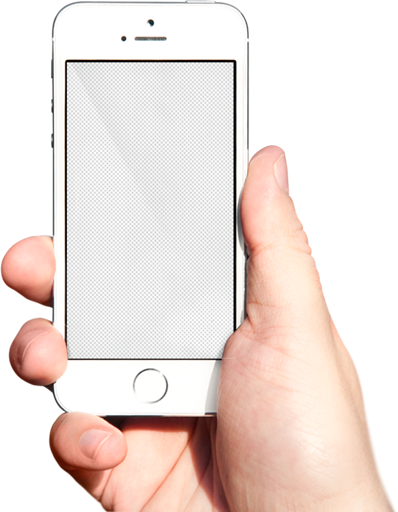
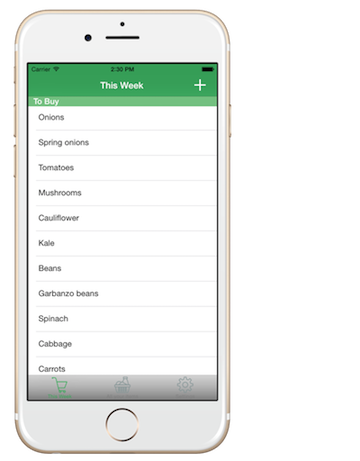
Made it as close to real as possible

diff --git a/index.html b/index.html
@@ -111,13 +111,13 @@ License URL: http://creativecommons.org/licenses/by/3.0/
 			          <img src="images/slide.jpg" alt="">
 			          <div class="caption text-center">
 			          	<div class="slide-text-info">
-			          		<h1>Introducing <span>GrocerEz.</span></h1>
+			          		<!--<h1>Introducing <span>GrocerEz.</span></h1>-->
 			          		<h2>Grocery planning and shopping made easy</h2>
 			          		<div class="slide-text">
 			          			<ul>
-			          				<li><span> </span>Sed ut perspiciatis unde omnis </li>
-			          				<li><span> </span>Iste natus error sit voluptatem accusantium </li>
-			          				<li><span> </span>doloremque laudantium</li>
+			          				<li><span> </span>Made for busy families.</li>
+			          				<li><span> </span>Spend time shopping, not creating lists.</li>
+			          				<li><span> </span>Your grocery list when you need it.</li>
 			          			</ul>
 			          		</div>
 			          		<div class="clearfix"> </div>
@@ -208,8 +208,8 @@ License URL: http://creativecommons.org/licenses/by/3.0/
 			<div id="fea" class="features">
 				<div class="container">
 					<div class="section-head text-center">
-						<h3><span class="frist"> </span>AMAZING FEATURES<span class="second"> </span></h3>
-						<p>Sed ut perspiciatis unde omnis iste natus error sit voluptatem accusantium doloremque laudantium, totam rem aperiam, eaque ipsa quae ab illo inventore veritatis et quasi architecto beatae vitae dicta.</p>
+						<h3><span class="frist"> </span>What you&#39;ll like<span class="second"> </span></h3>
+						<!--<p>Sed ut perspiciatis unde omnis iste natus error sit voluptatem accusantium doloremque laudantium, totam rem aperiam, eaque ipsa quae ab illo inventore veritatis et quasi architecto beatae vitae dicta.</p>-->
 					</div>
 					<!----features-grids----->
 					<div class="features-grids">
@@ -219,8 +219,8 @@ License URL: http://creativecommons.org/licenses/by/3.0/
 									<span class="f-icon0"> </span>
 								</div>
 								<div class="col-md-10 features-info">
-									<h4>Accusan timar</h4>
-									<p>Sed ut perspiciatis unde omnis iste natus error sit voluptatem accusantium doloremque laudantium.</p>
+									<h4>Ready shopping list</h4>
+									<p>Automatically created based on your buying habits.  So you always know what you need when you&#39;re in the store.</p>
 								</div>
 								<div class="clearfix"> </div>
 							</div>
@@ -229,12 +229,12 @@ License URL: http://creativecommons.org/licenses/by/3.0/
 									<span class="f-icon1"> </span>
 								</div>
 								<div class="col-md-10 features-info">
-									<h4>Accusan timar</h4>
-									<p>Sed ut perspiciatis unde omnis iste natus error sit voluptatem accusantium doloremque laudantium.</p>
+									<h4>In the store</h4>
+									<p>Use the shopping list.  Simply tap your item when you put it in your shopping cart.</p>
 								</div>
 								<div class="clearfix"> </div>
 							</div>
-							<div class="features-grid-info">
+							<!--<div class="features-grid-info">
 								<div class="col-md-2 features-icon">
 									<span class="f-icon2"> </span>
 								</div>
@@ -243,12 +243,12 @@ License URL: http://creativecommons.org/licenses/by/3.0/
 									<p>Sed ut perspiciatis unde omnis iste natus error sit voluptatem accusantium doloremque laudantium.</p>
 								</div>
 								<div class="clearfix"> </div>
-							</div>
+							</div>-->
 							
 						</div><!---end-features-grid---->
 						<div class="col-md-4 features-grid">
 							<div class="big-divice">
-								<img src="images/divice.png" title="features-demo" />
+								<img src="images/features.png" style="box-shadow: 7px 7px 5px #888888; border-top-style: none; border-bottom-style: none; border-right-style: none; border-left-style: solid; border-width: thin; border-color: #888888;" />
 							</div>
 						</div><!---end-features-grid---->
 						<div class="col-md-4 features-grid">
@@ -257,8 +257,8 @@ License URL: http://creativecommons.org/licenses/by/3.0/
 									<span class="f-icon3"> </span>
 								</div>
 								<div class="col-md-10 features-info">
-									<h4>Accusan timar</h4>
-									<p>Sed ut perspiciatis unde omnis iste natus error sit voluptatem accusantium doloremque laudantium.</p>
+									<h4>Smart add</h4>
+									<p>Search across 1000s of grocery items.  Add to your list with a single tap.</p>
 								</div>
 								<div class="clearfix"> </div>
 							</div>
@@ -267,12 +267,12 @@ License URL: http://creativecommons.org/licenses/by/3.0/
 									<span class="f-icon4"> </span>
 								</div>
 								<div class="col-md-10 features-info">
-									<h4>Accusan timar</h4>
-									<p>Sed ut perspiciatis unde omnis iste natus error sit voluptatem accusantium doloremque laudantium.</p>
+									<h4>Purchase history</h4>
+									<p>In case you forgot when you last bought something.  So you don&#39;t buy more of what you don&#39;t need.</p>
 								</div>
 								<div class="clearfix"> </div>
 							</div>
-							<div class="features-grid-info">
+							<!--<div class="features-grid-info">
 								<div class="col-md-2 features-icon1">
 									<span class="f-icon5"> </span>
 								</div>
@@ -281,7 +281,7 @@ License URL: http://creativecommons.org/licenses/by/3.0/
 									<p>Sed ut perspiciatis unde omnis iste natus error sit voluptatem accusantium doloremque laudantium.</p>
 								</div>
 								<div class="clearfix"> </div>
-							</div>
+							</div>-->
 							
 						</div><!---end-features-grid---->
 						<div class="clearfix"> </div>
@@ -293,8 +293,8 @@ License URL: http://creativecommons.org/licenses/by/3.0/
 					<div id="gallery" class="screen-shot-gallery">
 						<div class="container">
 							<div class="section-head text-center">
-								<h3><span class="frist"> </span>SCREENSHOTS GALLERY<span class="second"> </span></h3>
-								<p>Sed ut perspiciatis unde omnis iste natus error sit voluptatem accusantium doloremque laudantium, totam rem aperiam, eaque ipsa quae ab illo inventore veritatis et quasi architecto beatae vitae dicta.</p>
+								<h3><span class="frist"> </span>Screenshots<span class="second"> </span></h3>
+								<!--<p>Sed ut perspiciatis unde omnis iste natus error sit voluptatem accusantium doloremque laudantium, totam rem aperiam, eaque ipsa quae ab illo inventore veritatis et quasi architecto beatae vitae dicta.</p>-->
 							</div>
 						</div>
 						<!----sreen-gallery-cursual---->
@@ -316,28 +316,19 @@ License URL: http://creativecommons.org/licenses/by/3.0/
 							 <div class="container">
 						       <div id="owl-demo" class="owl-carousel">
 					                <div class="item">
-					                	<img class="lazyOwl" data-src="images/screen.jpg" alt="screen-name">
+					                	<img class="lazyOwl" data-src="images/screen0.png" alt="screen-name">
 					                </div>
 					                <div class="item">
-					                	<img class="lazyOwl" data-src="images/screen.jpg" alt="screen-name">
+					                	<img class="lazyOwl" data-src="images/screen1.png" alt="screen-name">
 					                </div>
 					                <div class="item">
-					                	<img class="lazyOwl" data-src="images/screen.jpg" alt="screen-name">
+					                	<img class="lazyOwl" data-src="images/screen2.png" alt="screen-name">
 					                </div>
 					                <div class="item">
-					                	<img class="lazyOwl" data-src="images/screen.jpg" alt="screen-name">
+					                	<img class="lazyOwl" data-src="images/screen3.png" alt="screen-name">
 					                </div>
 					                <div class="item">
-					                	<img class="lazyOwl" data-src="images/screen.jpg" alt="screen-name">
-					                </div>
-					                <div class="item">
-					                	<img class="lazyOwl" data-src="images/screen.jpg" alt="screen-name">
-					                </div>
-					                <div class="item">
-					                	<img class="lazyOwl" data-src="images/screen.jpg" alt="screen-name">
-					                </div>
-					                <div class="item">
-					                	<img class="lazyOwl" data-src="images/screen.jpg" alt="screen-name">
+					                	<img class="lazyOwl" data-src="images/screen4.png" alt="screen-name">
 					                </div>
 				              </div>
 						</div>
@@ -592,13 +583,13 @@ License URL: http://creativecommons.org/licenses/by/3.0/
             -->    
 			<!-----FEATURED----->
 			<!-----getintouch----->
+            <!--    
 			<div id="contact" class="getintouch">
 				<div class="container">
 					<div class="section-head text-center">
 						<h3><span class="frist"> </span>Get in touch<span class="second"> </span></h3>
-						<!--<p>We&#44;d love to hear from you.  Please leave us a note!</p>-->
+						<p>We&#44;d love to hear from you.  Please leave us a note!</p>
 					</div>
-					<!---->
 					<div class="col-md-9 getintouch-left">
 						<div class="contact-form col-md-10">
 							<h3>We&#44;d love to hear from you.&nbsp;&nbsp;Please leave us a note!</h3>
@@ -609,7 +600,6 @@ License URL: http://creativecommons.org/licenses/by/3.0/
 								<input type="submit" value="Send message" />
 							</form>
 						</div>
-						<!--
                         <ul class="footer-social-icons col-md-2 text-center">
 							<li><a class="f-be" href="#"><span> </span></a></li>
 							<li><a class="f-tw" href="#"><span> </span></a></li>
@@ -618,7 +608,6 @@ License URL: http://creativecommons.org/licenses/by/3.0/
 							<li><a class="f-go" href="#"><span> </span></a></li>
 							<div class="clearfix"> </div>
 						</ul>
-                        -->
 					</div>
 					<div class="col-md-2 getintouch-left">
 						<div class="footer-divice">
@@ -627,9 +616,10 @@ License URL: http://creativecommons.org/licenses/by/3.0/
 					</div>	
 				</div>
 			</div>
+            -->
 			<!---//getintouch----->
 			<!-----footer----->
-			<div class="footer">
+			<div class="footer" id="contact">
 				<div class="container">
 					<div class="footer-grids">
 						<div class="col-md-3 footer-grid about-info">

diff --git a/css/style.css b/css/style.css
@@ -31,18 +31,18 @@ body a{
 }
 /*----navbar-nav----*/
 .top-header{
-	background: #FFf;
+	background: #36B367;
 	padding: 0.7em 1.5em;
 	margin: 3.5em 0 0 0;
-	box-shadow: 0px 0px 4px #C9C9C9;
+	/*box-shadow: 0px 0px 4px #C9C9C9;
 	-webkit-box-shadow: 0px 0px 4px #C9C9C9;
 	-moz-box-shadow: 0px 0px 4px #C9C9C9;
 	-o-box-shadow: 0px 0px 4px #C9C9C9;
-	-ms-box-shadow: 0px 0px 4px #C9C9C9;
+	-ms-box-shadow: 0px 0px 4px #C9C9C9;*/
 	
 }
 .top-nav ul li a{
-	color: #7E7C7E;
+	color: white;
 	padding: 0.2em 1.5em;
 	font-size: 0.9em;
 	font-weight: 400;
@@ -463,7 +463,7 @@ nav a#pull {
 	position: absolute;
 	bottom: 0px;
 	z-index: 999;
-	right: 10%;
+	right: 0%;
 }
 .header-section{
 	position:relative;
@@ -929,7 +929,7 @@ p.copy a:hover{
 /*-----768px-mediaquries----*/
 @media (max-width:768px){
 	.divice-demo img{
-		width: 57%;
+		width: 40%;
 	}
 	.slide-text-info {
 		margin: -2% 0 0;
@@ -999,7 +999,7 @@ p.copy a:hover{
 		display: inline-block;
 	}
 	.top-header {
-		  background: #FFf;
+		  background: #36B367;
 		  padding: 0.3em 1.5em;
     }
     .footer-divice img {
@@ -1039,7 +1039,7 @@ p.copy a:hover{
 		margin: 0.5em 0;
 	}
 	.slide-text ul li{
-		font-size:0.8em;
+		font-size:0.5em;
 	}
 	.slide-text ul li:nth-child(2){
 		display:none;
@@ -1126,7 +1126,7 @@ p.copy a:hover{
 		margin: 0.5em 0;
 	}
 	.slide-text ul li{
-		font-size: 0.7em;
+		font-size: 0.5em;
 	}
 	.slide-text ul li:nth-child(2){
 		display:none;
